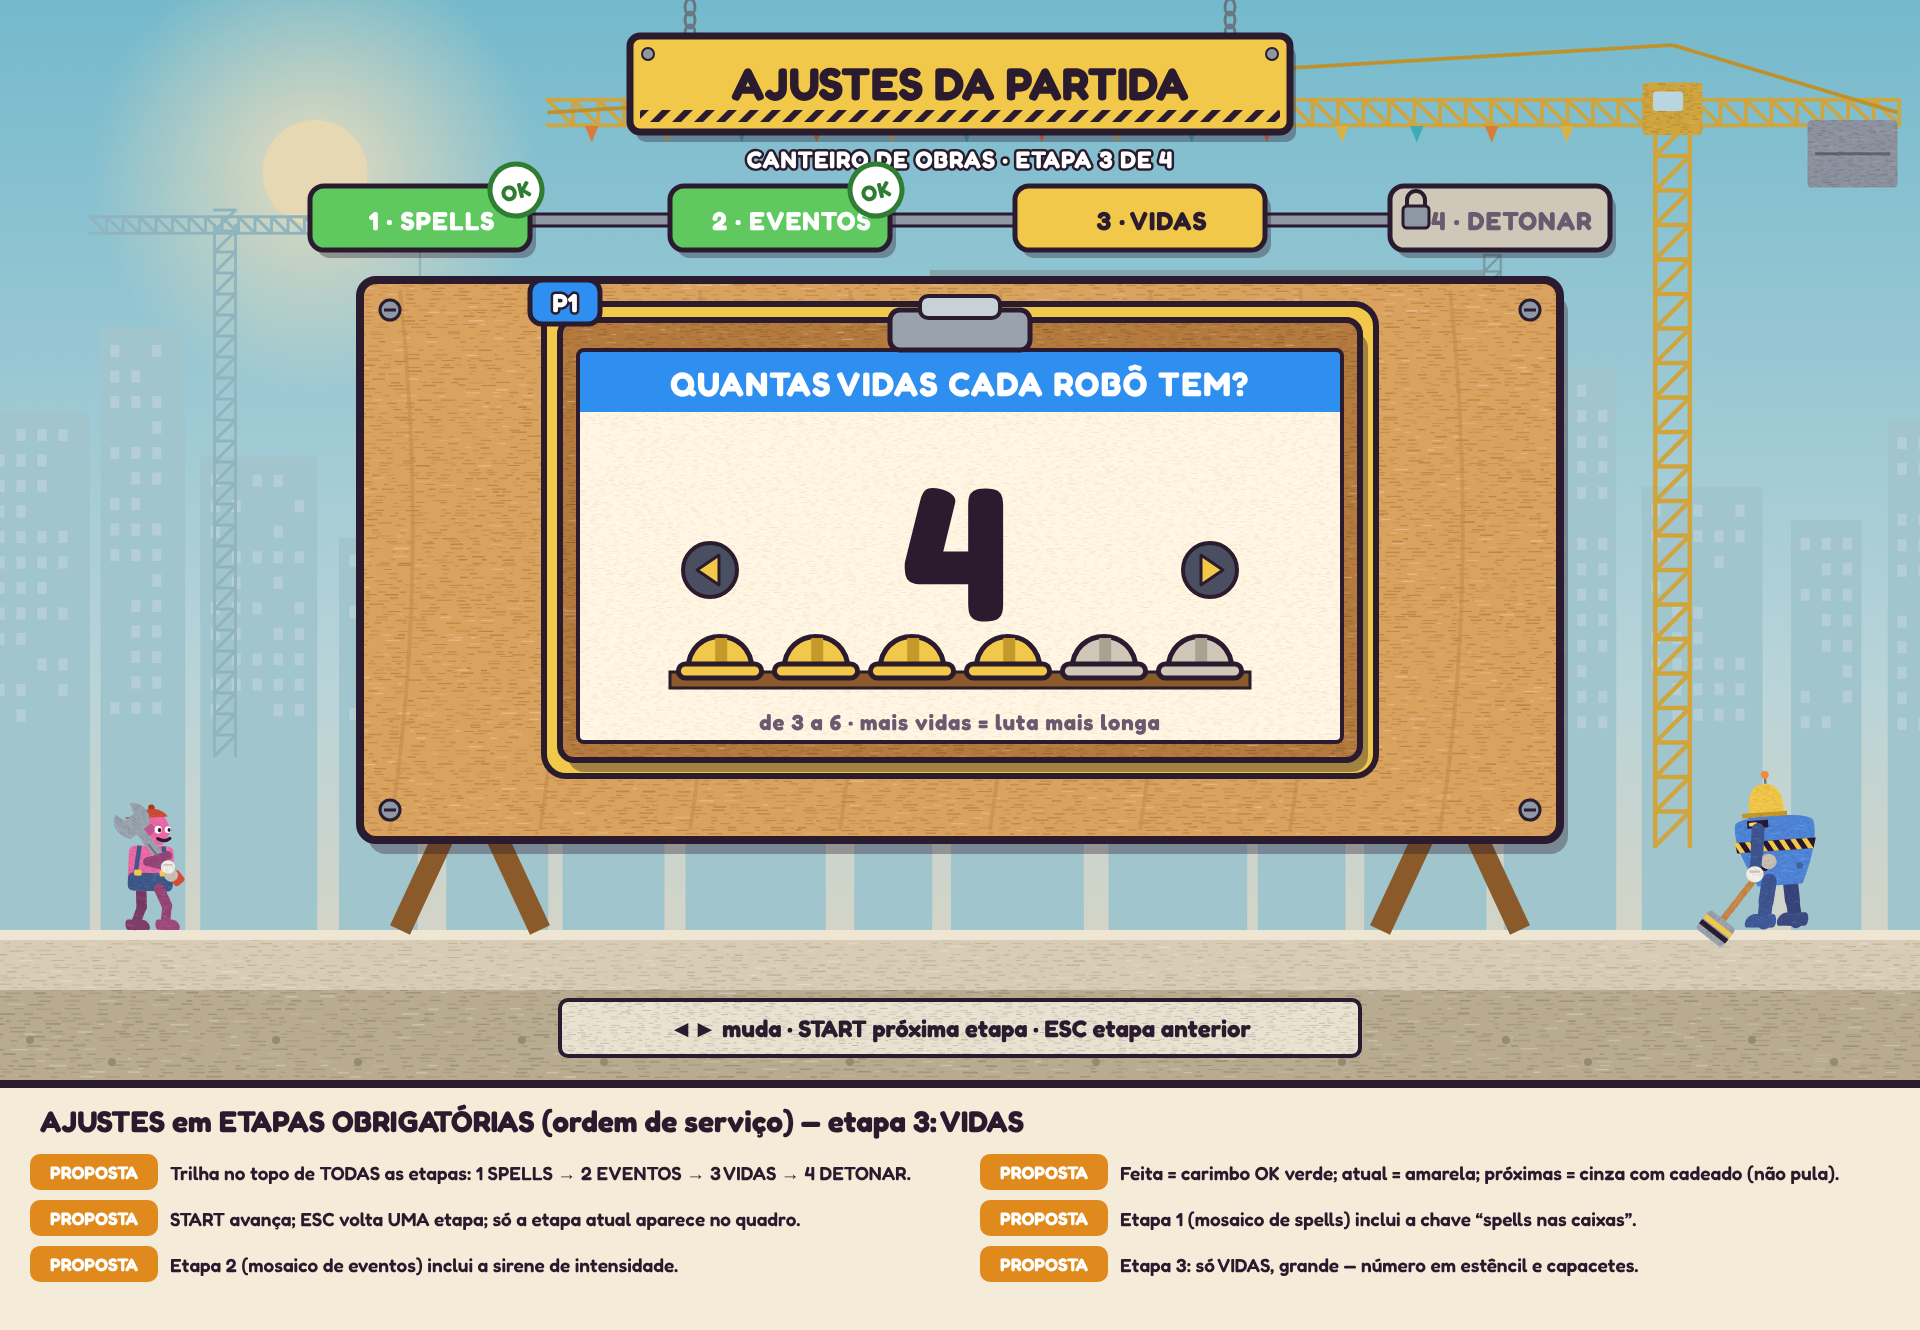
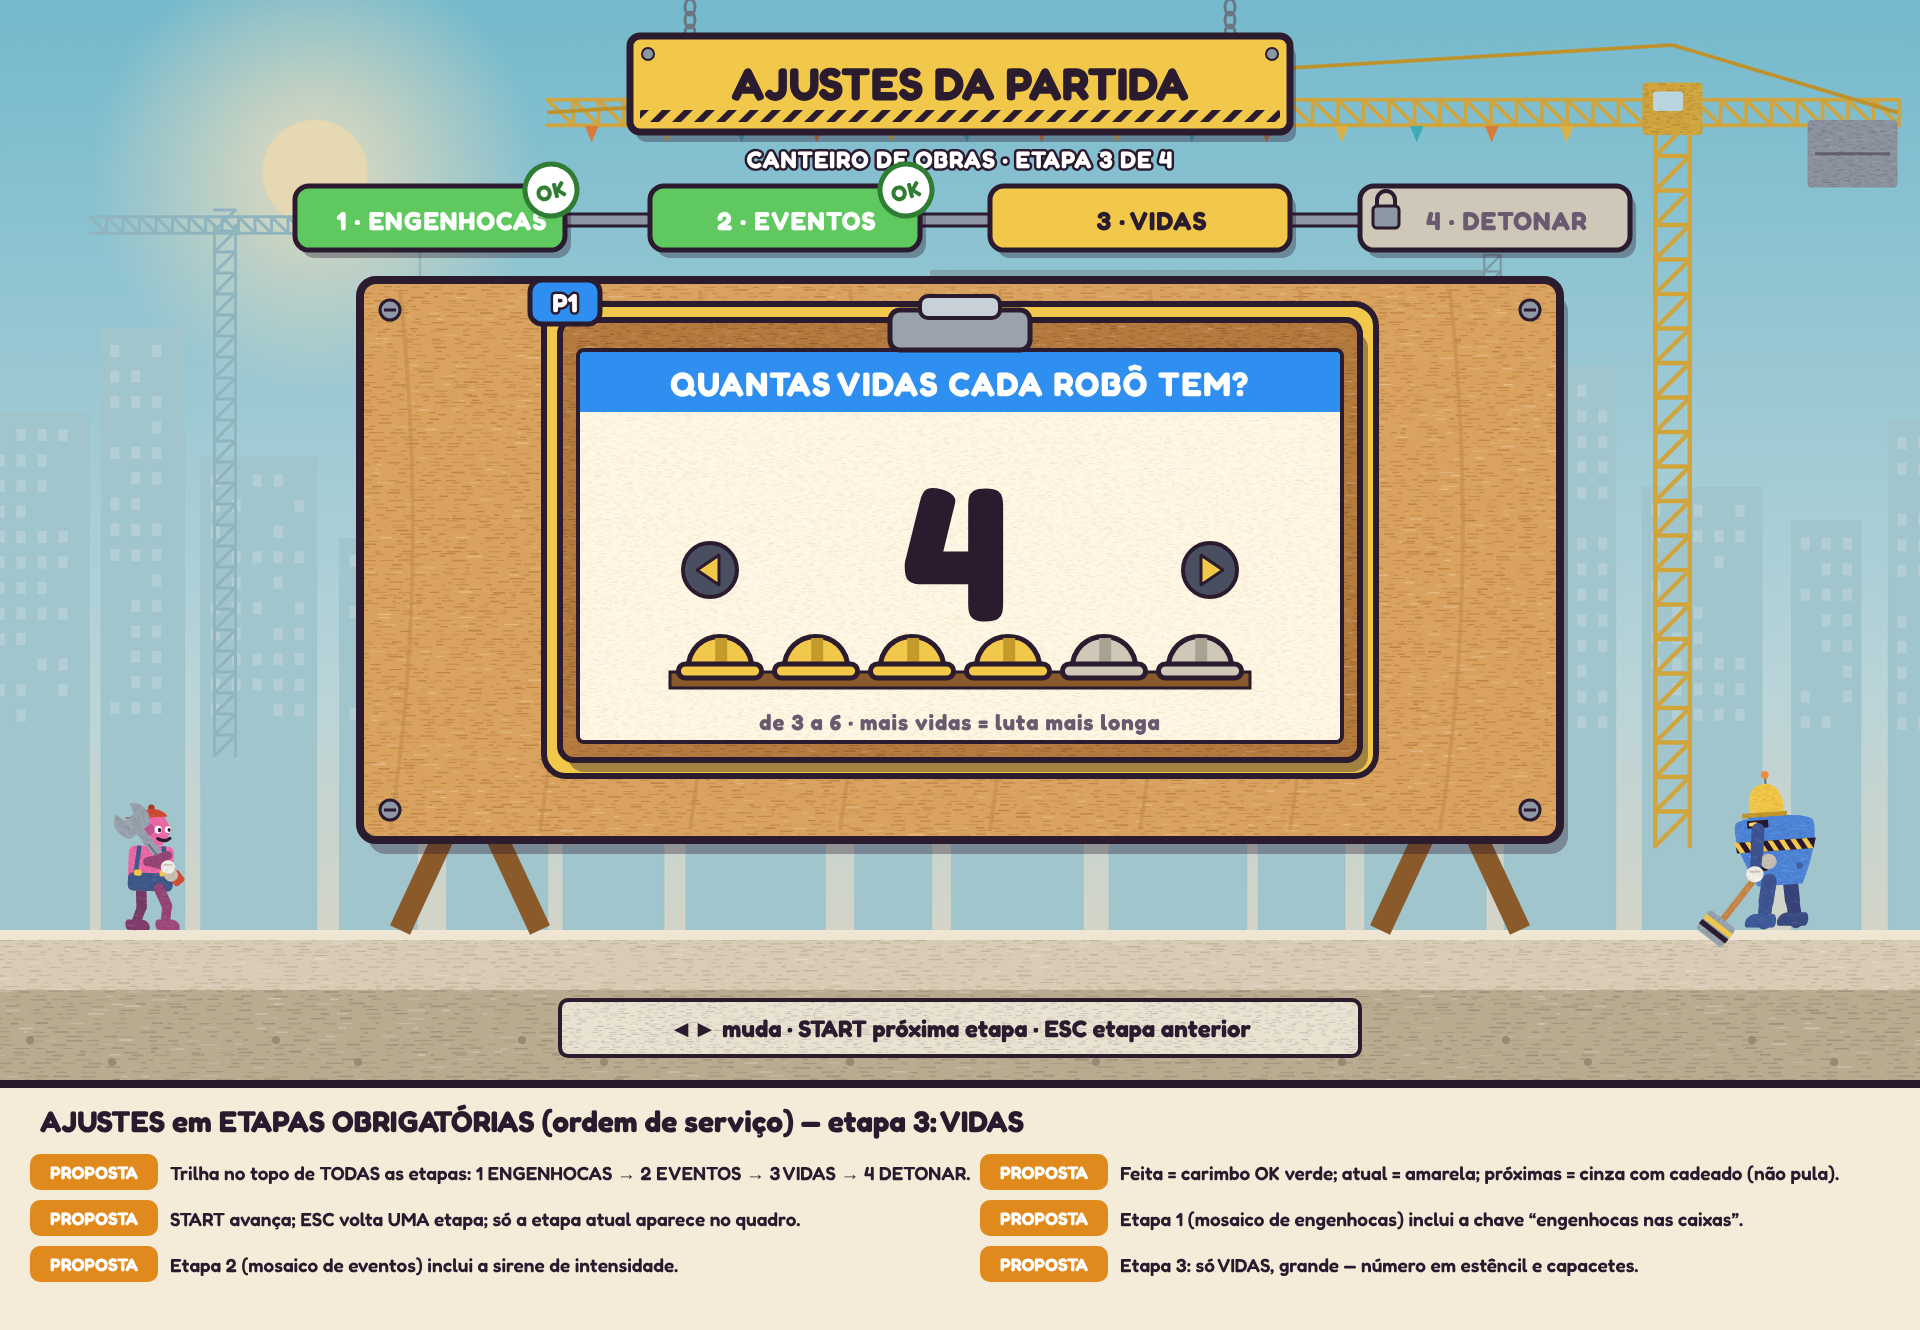
Spells viram ENGENHOCAS em tudo o que o jogador vê (A20); pranchas das etapas 1 (Engenhocas) e 2 (Eventos) no estilo Canteiro vivo; Laboratório sempre com todos os eventos; teste de seleção volta ao menu
Claude-Session: https://claude.ai/code/session_017desNJLabnbh98EwrZ9vQj

diff --git a/art/src/ui/menus_v2.py b/art/src/ui/menus_v2.py
@@ -109,7 +109,8 @@ def elenco(y, poses, xs, s=1.6):
 
 
 def plaquinha_dica(txt):
-    return (fp.R(560, 1000, 800, 56, "#e9e2d0", 8, 1.6) + f'<rect x="560" y="1000" width="800" height="56" rx="8" fill="none" stroke="{INK}" stroke-width="4"/>'
+    w = max(800, len(txt) * 13 + 60)
+    return (fp.R(960 - w / 2, 1000, w, 56, "#e9e2d0", 8, 1.6) + f'<rect x="{960 - w / 2}" y="1000" width="{w}" height="56" rx="8" fill="none" stroke="{INK}" stroke-width="4"/>'
             + ec.T(960, 1037, txt, 24, INK))
 
 
@@ -352,17 +353,17 @@ def tela_ajustes():
 
 def trilha(atual):
     """Trilha de etapas obrigatórias (ordem de serviço): feitas = OK verde; atual = amarela; próximas = cinza + cadeado."""
-    nomes = ["SPELLS", "EVENTOS", "VIDAS", "DETONAR"]
+    nomes = ["ENGENHOCAS", "EVENTOS", "VIDAS", "DETONAR"]
     b = [f'<rect x="330" y="214" width="1260" height="12" fill="#8d98a4" stroke="{INK}" stroke-width="3"/>']
     for k, nm in enumerate(nomes):
-        cx = 420 + k * 360
+        cx = 430 + k * 355
         if k < atual:
             fill, txt = "#5fc95f", "#ffffff"
         elif k == atual:
             fill, txt = YEL, INK
         else:
             fill, txt = "#cfc8b8", "#6b5a70"
-        w = 250 if k == atual else 220
+        w = 300 if k == atual else 270
         b.append(f'<rect x="{cx - w / 2 + 6}" y="{186 + 8}" width="{w}" height="64" rx="14" fill="{INK}" opacity="0.35"/>')
         b.append(f'<rect x="{cx - w / 2}" y="186" width="{w}" height="64" rx="14" fill="{fill}" stroke="{INK}" stroke-width="5"/>')
         b.append(estencil(cx + 12, 230, f"{k + 1} · {nm}", 26, txt))
@@ -408,10 +409,10 @@ def tela_etapa_vidas():
     b.append(elenco(930, [("chave", "parado", 2, False), ("marretao", "parado", 0, True)], [150, 1780], 1.5))
     b.append(plaquinha_dica("◄► muda  ·  START próxima etapa  ·  ESC etapa anterior"))
     n = ec.notes("AJUSTES em ETAPAS OBRIGATÓRIAS (ordem de serviço) — etapa 3: VIDAS", [
-        ("PROPOSTA", "Trilha no topo de TODAS as etapas: 1 SPELLS → 2 EVENTOS → 3 VIDAS → 4 DETONAR."),
+        ("PROPOSTA", "Trilha no topo de TODAS as etapas: 1 ENGENHOCAS → 2 EVENTOS → 3 VIDAS → 4 DETONAR."),
         ("PROPOSTA", "Feita = carimbo OK verde; atual = amarela; próximas = cinza com cadeado (não pula)."),
         ("PROPOSTA", "START avança; ESC volta UMA etapa; só a etapa atual aparece no quadro."),
-        ("PROPOSTA", "Etapa 1 (mosaico de spells) inclui a chave “spells nas caixas”."),
+        ("PROPOSTA", "Etapa 1 (mosaico de engenhocas) inclui a chave “engenhocas nas caixas”."),
         ("PROPOSTA", "Etapa 2 (mosaico de eventos) inclui a sirene de intensidade."),
         ("PROPOSTA", "Etapa 3: só VIDAS, grande — número em estêncil e capacetes."),
     ])
@@ -423,7 +424,7 @@ def tela_etapa_detonar():
     # ficha-resumo (ordem de serviço) à esquerda
     x, y, w, h = 420, 320, 600, 480
     b.append(prancheta(x, y, w, h, "ORDEM DE SERVIÇO", "#2a1a2e"))
-    linhas = [("MAPA", "Canteiro de Obras"), ("SPELLS", "8 acesas"), ("EVENTOS", "10 · NORMAL"), ("VIDAS", "4")]
+    linhas = [("MAPA", "Canteiro de Obras"), ("ENGENHOCAS", "8 acesas"), ("EVENTOS", "10 · NORMAL"), ("VIDAS", "4")]
     for k, (a_, v) in enumerate(linhas):
         yy = y + 150 + k * 78
         b.append(f'<path d="M{x + 40},{yy + 16} H{x + w - 40}" stroke="#d9c7a3" stroke-width="3"/>')
@@ -451,6 +452,119 @@ def tela_etapa_detonar():
         ("DECIDIR", "A entrada de jogadores vira a etapa 5 da trilha, ou fica separada?"),
     ])
     return ec.page(f'<g filter="url(#rough)">{"".join(b)}</g>', n, rough(seed=16, scale=0.5, freq=0.05))
+
+
+def carta_mosaico(x, y, w, h, cor, nome, icone_img, on, cursor=False, rotulo="", fam_icone=None):
+    """Carta do mosaico no estilo novo: ficha de compensado creme com faixa da família, ícone grande e carimbo ligado."""
+    b = []
+    if cursor:
+        b.append(f'<rect x="{x - 12}" y="{y - 12}" width="{w + 24}" height="{h + 24}" rx="18" fill="{YEL}" stroke="{INK}" stroke-width="6"/>')
+    b.append(f'<rect x="{x + 5}" y="{y + 8}" width="{w}" height="{h}" rx="12" fill="{INK}" opacity="0.35"/>')
+    b.append(fp.R(x, y, w, h, CREAM if on else "#dcd4c4", 10, 1.3))
+    b.append(f'<rect x="{x}" y="{y}" width="{w}" height="38" rx="10" fill="{cor}" opacity="{1 if on else 0.4}"/>')
+    b.append(f'<rect x="{x}" y="{y}" width="{w}" height="{h}" rx="10" fill="none" stroke="{INK}" stroke-width="5"/>')
+    if rotulo:
+        b.append(estencil(x + 14, y + 28, rotulo, 20, "#ffffff", "start"))
+    if fam_icone is not None:
+        b.append(ec.img(fam_icone, x + 24, y + 19, 24, 24))
+    if icone_img is not None:
+        b.append(ec.img(icone_img, x + w / 2, y + 38 + (h - 96) / 2, w - 40, h - 110, '' if on else 'opacity="0.35"'))
+    b.append(ec.lines(x + w / 2, y + h - 34, ec.wrap2(nome, 11), 16, INK if on else "#6b5a70"))
+    cx, cy = x + w - 14, y + 12   # carimbo ligado/desligado
+    if on:
+        b.append(f'<circle cx="{cx}" cy="{cy}" r="19" fill="#5fc95f" stroke="{INK}" stroke-width="4"/><path d="M{cx - 8},{cy + 1} l6,7 l11,-13" stroke="#fff" stroke-width="5" fill="none" stroke-linecap="round"/>')
+    else:
+        b.append(f'<circle cx="{cx}" cy="{cy}" r="17" fill="#cfc8b8" stroke="{INK}" stroke-width="4"/>')
+    return "".join(b)
+
+
+def tela_etapa_engenhocas():
+    b = [fundo(0.12), chao(930), cabecalho("CANTEIRO DE OBRAS · ETAPA 1 DE 4"), trilha(0)]
+    b.append(fp.R(140, 270, 1640, 640, "#d9a35f", 16, 2.6, dark="#b57a3e") + f'<rect x="140" y="270" width="1640" height="640" rx="16" fill="none" stroke="{INK}" stroke-width="8"/>')
+    off = {"C04", "T06", "T07", "E01"}
+    cw, ch, gap = 168, 176, 18
+    x0 = 170
+    cells = list(ec.SPELLS)
+    fam_ic = {f: (lambda im: im.crop(im.getbbox()))(Image.open(os.path.join(ROOT, f"game/assets/spells/icone_{f}.png")).convert("RGBA")) for f in ec.FAM}
+    for i, (sid, nome, fam, ref) in enumerate(cells):
+        x, y = x0 + (i % 8) * (cw + gap), 300 + (i // 8) * (ch + 18)
+        im = ec.asset(ref) if ref else fam_ic[fam]
+        b.append(carta_mosaico(x, y, cw, ch, ec.FAM[fam], nome, im, sid not in off, cursor=(sid == "T03"), fam_icone=fam_ic[fam]))
+        if sid == "T03":
+            b.append(chip(x - 26, y - 34))
+    x, y = x0 + 7 * (cw + gap), 300 + 2 * (ch + 18)   # ALEATÓRIO
+    b.append(f'<rect x="{x}" y="{y}" width="{cw}" height="{ch}" rx="10" fill="{YEL}" stroke="{INK}" stroke-width="5"/>' + ec.title(x + cw / 2, y + 112, "?", 96) + estencil(x + cw / 2, y + ch - 16, "ALEATÓRIO", 20, INK))
+    # painel lateral: contador + chave "engenhocas nas caixas"
+    sx, sy = 1700, 470
+    b.append(f'<rect x="1660" y="300" width="100" height="560" rx="12" fill="#4a5060" stroke="{INK}" stroke-width="5"/>')
+    b.append(f'<rect x="{sx - 12}" y="{sy - 60}" width="24" height="120" rx="12" fill="#2a2f3a"/><path d="M{sx},{sy + 40} L{sx},{sy - 48}" stroke="#c9d1d8" stroke-width="14" stroke-linecap="round"/><circle cx="{sx}" cy="{sy - 54}" r="18" fill="#5fc95f" stroke="{INK}" stroke-width="5"/>')
+    b.append(estencil(1710, 560, "LIGA", 20, "#5fc95f") + estencil(1710, 620, "nas", 18, "#ffffff") + estencil(1710, 644, "caixas", 18, "#ffffff"))
+    b.append(estencil(1710, 770, "19", 50, YEL) + estencil(1710, 800, "de 23", 18, "#ffffff"))
+    b.append(plaquinha_dica("◄►▲▼ escolher · PULAR acende/apaga · ATACAR tudo/nada · START próxima etapa"))
+    n = ec.notes("ETAPA 1 — ENGENHOCAS (antes “spells”) no estilo Canteiro vivo", [
+        ("APROVADO", "Nome ENGENHOCAS em tudo o que o jogador vê (A20)."),
+        ("APROVADO", "Mosaico; mínimo 4; ALEATÓRIO = 8 (2 por família); ATACAR tudo/nada."),
+        ("PROPOSTA", "Cartas viram fichas de compensado com a faixa da família e carimbo ligado/desligado."),
+        ("PROPOSTA", "Coluna de metal à direita: chave “engenhocas nas caixas” + contador (19 de 23)."),
+        ("PROPOSTA", "Trilha no topo: esta é a etapa 1; START só avança com 4 ou mais acesas."),
+        ("PROPOSTA", "ESC aqui volta à escolha do mapa (é a primeira etapa)."),
+    ])
+    return ec.page(f'<g filter="url(#rough)">{"".join(b)}</g>', n, rough(seed=17, scale=0.5, freq=0.05))
+
+
+def tela_etapa_eventos():
+    b = [fundo(0.12), chao(930), cabecalho("CANTEIRO DE OBRAS · ETAPA 2 DE 4"), trilha(1)]
+    b.append(fp.R(140, 270, 1640, 640, "#d9a35f", 16, 2.6, dark="#b57a3e") + f'<rect x="140" y="270" width="1640" height="640" rx="16" fill="none" stroke="{INK}" stroke-width="8"/>')
+    cw, ch, gap = 160, 270, 17
+    x0 = 170
+    cells = [("NONE", "NENHUM", None, None)] + list(ec.EVENTOS) + [("RND", "ALEATÓRIO", None, None)]
+    for i, (eid, nome, ref, _c) in enumerate(cells):
+        x, y = x0 + (i % 7) * (cw + gap), 310 + (i // 7) * (ch + 34)
+        if eid == "NONE":
+            b.append(f'<rect x="{x}" y="{y}" width="{cw}" height="{ch}" rx="10" fill="#dcd4c4" stroke="{INK}" stroke-width="5"/>'
+                     f'<circle cx="{x + cw / 2}" cy="{y + 116}" r="50" fill="none" stroke="{INK}" stroke-width="11"/><path d="M{x + cw / 2 - 35},{y + 151} L{x + cw / 2 + 35},{y + 81}" stroke="{INK}" stroke-width="11"/>'
+                     + estencil(x + cw / 2, y + ch - 22, "NENHUM", 22, INK))
+            continue
+        if eid == "RND":
+            b.append(f'<rect x="{x}" y="{y}" width="{cw}" height="{ch}" rx="10" fill="{YEL}" stroke="{INK}" stroke-width="5"/>' + ec.title(x + cw / 2, y + 160, "?", 110) + estencil(x + cw / 2, y + ch - 20, "ALEATÓRIO", 18, INK))
+            continue
+        img = None if ref.startswith("@") else ec.asset(ref)
+        b.append(carta_mosaico(x, y, cw, ch, "#6aa6c8", nome, img, eid != "G11", cursor=(eid == "G03"), rotulo=eid))
+        if img is None:
+            b.append(f'<g>{ec.glyph(ref, x + cw / 2, y + 38 + (ch - 96) / 2, 0.75)}</g>')
+        if eid == "G03":
+            b.append(chip(x - 26, y - 34))
+    # sirene de intensidade (à direita)
+    gx, gy = 1500, 560
+    b.append(fp.R(1420, 300, 330, 580, CREAM, 10, 1.4) + f'<rect x="1420" y="300" width="330" height="580" rx="10" fill="none" stroke="{INK}" stroke-width="5"/>')
+    b.append(f'<rect x="1420" y="300" width="330" height="56" rx="10" fill="#d42035"/>' + estencil(1585, 340, "INTENSIDADE", 26, "#ffffff"))
+    sx, sy = 1585, 470
+    for k in range(3):
+        a = math.radians(-60 + k * 50)
+        b.append(f'<path d="M{sx},{sy - 30} L{sx + math.cos(a) * 120:.0f},{sy - 30 + math.sin(a) * 70:.0f} L{sx + math.cos(a + 0.35) * 120:.0f},{sy - 30 + math.sin(a + 0.35) * 70:.0f}Z" fill="#ffd34d" opacity="0.4"/>')
+    b.append(f'<rect x="{sx - 56}" y="{sy + 2}" width="112" height="26" rx="6" fill="#4a4f5c" stroke="{INK}" stroke-width="4"/><path d="M{sx - 44},{sy + 4} v-38 a44,44 0 0 1 88,0 v38z" fill="#e8483f" stroke="{INK}" stroke-width="5"/>')
+    gx, gy, gr = 1585, 700, 100
+    labs = ["DESL.", "BAIXA", "NORMAL", "ALTA"]
+    cols = ["#8d98a4", "#8fd46a", "#f2d04b", "#ec6448"]
+    for k in range(4):
+        a0 = math.radians(180 + k * 45)
+        a1 = math.radians(180 + (k + 1) * 45)
+        b.append(f'<path d="M{gx},{gy} L{gx + math.cos(a0) * gr:.1f},{gy + math.sin(a0) * gr:.1f} A{gr},{gr} 0 0 1 {gx + math.cos(a1) * gr:.1f},{gy + math.sin(a1) * gr:.1f}Z" fill="{cols[k]}" stroke="{INK}" stroke-width="4"/>')
+        am = math.radians(180 + (k + 0.5) * 45)
+        b.append(ec.T(gx + math.cos(am) * (gr + 30), gy + math.sin(am) * (gr + 22) + 6, labs[k], 16, INK))
+    an = math.radians(180 + 2.5 * 45)
+    b.append(f'<path d="M{gx},{gy} L{gx + math.cos(an) * (gr - 12):.1f},{gy + math.sin(an) * (gr - 12):.1f}" stroke="{INK}" stroke-width="9" stroke-linecap="round"/><circle cx="{gx}" cy="{gy}" r="12" fill="{YEL}" stroke="{INK}" stroke-width="4"/>')
+    b.append(estencil(gx, gy + 60, "NORMAL", 30, "#b0331f") + estencil(gx, gy + 92, "▲▼ na sirene", 18, "#6b5a70"))
+    b.append(plaquinha_dica("◄►▲▼ escolher · PULAR acende/apaga · START próxima etapa · ESC etapa anterior"))
+    n = ec.notes("ETAPA 2 — EVENTOS (do mapa, valem em todas as cenas) no estilo Canteiro vivo", [
+        ("APROVADO", "Só eventos do mapa (A14); NENHUM, ALEATÓRIO, sem máximo (A18)."),
+        ("PROPOSTA", "Mesmas fichas de compensado da etapa 1; carimbo ligado/desligado."),
+        ("PROPOSTA", "Intensidade dos eventos entra AQUI: sirene com mostrador (sai da etapa de vidas)."),
+        ("PROPOSTA", "Perigos da cena (betoneira, água, serra…) não aparecem: estão sempre ligados."),
+        ("PROPOSTA", "Trilha no topo: etapa 1 com OK, esta amarela, 3 e 4 com cadeado."),
+        ("DECIDIR", "Chamar esta etapa de EVENTOS ou de MODIFICAÇÕES (como na sua proposta original)?"),
+    ])
+    return ec.page(f'<g filter="url(#rough)">{"".join(b)}</g>', n, rough(seed=18, scale=0.5, freq=0.05))
 
 
 def tela_abertura():
@@ -501,7 +615,7 @@ def tela_abertura():
 
 def main():
     os.makedirs(OUT, exist_ok=True)
-    boards = [("v2_1_menu", tela_menu()), ("v2_2_mapas", tela_mapas()), ("v2_3_etapa_vidas", tela_etapa_vidas()), ("v2_3b_etapa_detonar", tela_etapa_detonar()), ("v2_4_abertura", tela_abertura())]
+    boards = [("v2_1_menu", tela_menu()), ("v2_2_mapas", tela_mapas()), ("v2_3a_etapa_engenhocas", tela_etapa_engenhocas()), ("v2_3a2_etapa_eventos", tela_etapa_eventos()), ("v2_3_etapa_vidas", tela_etapa_vidas()), ("v2_3b_etapa_detonar", tela_etapa_detonar()), ("v2_4_abertura", tela_abertura())]
     import json, subprocess, tempfile
     tmp = tempfile.mkdtemp(prefix="menus_v2_")
     jobs = []

diff --git a/docs/ESTADO.md b/docs/ESTADO.md
@@ -15,7 +15,8 @@ perigos).** Também aprovados: spells mín. 4 sem máx. (A15), manômetro 10–9
 **Avaliação do usuário no .exe (2026-11-26):** (1) escolher o mapa direto fechava o jogo → CORRIGIDO (`3b40986`: tela de
 spells dependia da partida). (2) Pelo SORTEIO as telas de spells/eventos eram puladas → FEITO: o "?" sorteia o mapa e segue para as mesmas telas. (3) Transição para a FACHADA "parece teletransporte" → REFEITA (a laje vira rampa até a Fachada e todos deslizam por ela). (4) Com 3 vidas a verificação chega cedo / 90% é
 exagero → proposta do usuário 30%/70% (fica <30, moderada 30–70, total ≥70) A VALIDAR com mais testes (não mudar ainda).
-(5) Layout das telas e a abertura não agradam → direção **A "Canteiro vivo"** escolhida (2026-11-26); pranchas `art/out/menus_v2/v2_1–v2_4` (gerador `art/src/ui/menus_v2.py`) AGUARDANDO APROVAÇÃO; depois o código.
+(5) Layout das telas e a abertura não agradam → direção **A "Canteiro vivo"** escolhida (2026-11-26); pranchas `art/out/menus_v2/` (gerador `art/src/ui/menus_v2.py`): menu, mapas, AJUSTES EM ETAPAS OBRIGATÓRIAS (1 Engenhocas → 2 Eventos → 3 Vidas → 4 Detonar) e abertura — AGUARDANDO APROVAÇÃO; depois o código.
+**Spells agora se chamam ENGENHOCAS** para o jogador (A20, 2026-11-26); nome interno no código segue `spell`.
 **Entregues ao usuário (2026-11-26):** vídeos `out/videos/canteiro_rota_total.mp4` e `canteiro_rota_moderada.mp4` (captura `--video=DIR --arena=canteiro_obras --virada=16 --rota=… --dur=42` **com `--fixed-fps 60`** + `tools/mixar_video.py`) e o `.exe` (`tools/exportar.sh`; modelos 4.7.1 instalados com checksum). `out/` não vai para o git.
 **PAUSA DE 2026-11-25 → leia primeiro `docs/RETOMADA_2026-11-25.md`** (o que foi feito, estado no commit `7556692`, decisões pendentes e verificação).
 **LIMPA DE SPELLS/EVENTOS (anotações, NÃO executar sem pedido):** `docs/revisoes/limpa_spells_eventos.md`.

diff --git a/docs/revisoes/reformulacao_derruba.md b/docs/revisoes/reformulacao_derruba.md
@@ -27,6 +27,7 @@ Projetos de Demolição) — esta última documentada para o futuro.
 | A13 | **Estrelas = placar da sessão** (2026-11-26): continuam em Jogar de novo, Configurar mapa e Selecionar mapa; **só Menu principal zera**. Não são salvas no perfil. |
 | A18 | Eventos: **sem máximo** de ligados. Manômetro **mostra o número** (%) embaixo da agulha (2026-11-26). |
 | A19 | Card **ALEATÓRIO** das spells acende **8 sorteadas, 2 de cada família**; depois o jogador ainda ajusta (2026-11-26). |
+| A20 | **"Spells" passam a se chamar ENGENHOCAS** em tudo o que o jogador vê (2026-11-26). No código e nos dados o nome interno continua `spell` (ids A##/C##/E##/T##). |
 | A12 | Online, contas e sincronização: **não implementar**; só desenhar os dados para o futuro (`CLAUDE.md` continua proibindo online). |
 | A14 | **EVENTO × PERIGO DA CENA (2026-11-26):** evento é **do mapa** e selecionável; tem de acontecer em **todas as cenas** do mapa (ex.: um terremoto vale nas 3). O que é específico de uma cena é **perigo/mecanismo da cena** (ex.: a enchente da Fundação, a serra do Térreo), não evento. Os antigos `V#` viram perigos da cena. |
 | A15 | Spells na tela de seleção: **mínimo 4, sem máximo** (2026-11-26). |

diff --git a/docs/manuais/derruba/README.md b/docs/manuais/derruba/README.md
@@ -14,6 +14,9 @@ quem sobra. Dano acumulado (Amassômetro %) aumenta o arremesso. Motor: `game/mo
 Rota Total* = os dois destinos possíveis de uma transição. *Evento/modificação* = ocorrência opcional escolhida na
 configuração. *Partida* = uma luta até sobrar um robô.
 
+> **Vocabulário (A20, 2026-11-26):** o que o jogador vê como **ENGENHOCA** é o que o código e os manuais antigos chamam de
+> *spell* (`modes/spells.gd`, `spell.md`, ids A##/C##/E##/T##).
+
 ## Regras do modo (valem para TODO mapa do Derruba)
 | Tema | Regra (v2, APROVADA) | No jogo hoje |
 |---|---|---|

diff --git a/docs/manuais/derruba/spell.md b/docs/manuais/derruba/spell.md
@@ -1,5 +1,7 @@
 # Manual — criar uma SPELL (modo Derruba)
 
+> No jogo, o nome que o jogador vê é **ENGENHOCA** (A20, 2026-11-26); "spell" ficou como nome interno.
+
 Spell = item da caixa: 1 por robô, botão de ESPECIAL. 26 aprovadas (A01–T07, ver `NOMES` em `game/modes/spells.gd`).
 Princípios gerais: [`../spells.md`](../spells.md). **Classes = do modo** (`modos[derruba].classes_spells`: ataque,
 controle, engenharia, transformação). **Disponibilidade = do mapa**: uma spell só sai nas caixas de um mapa se estiver em
